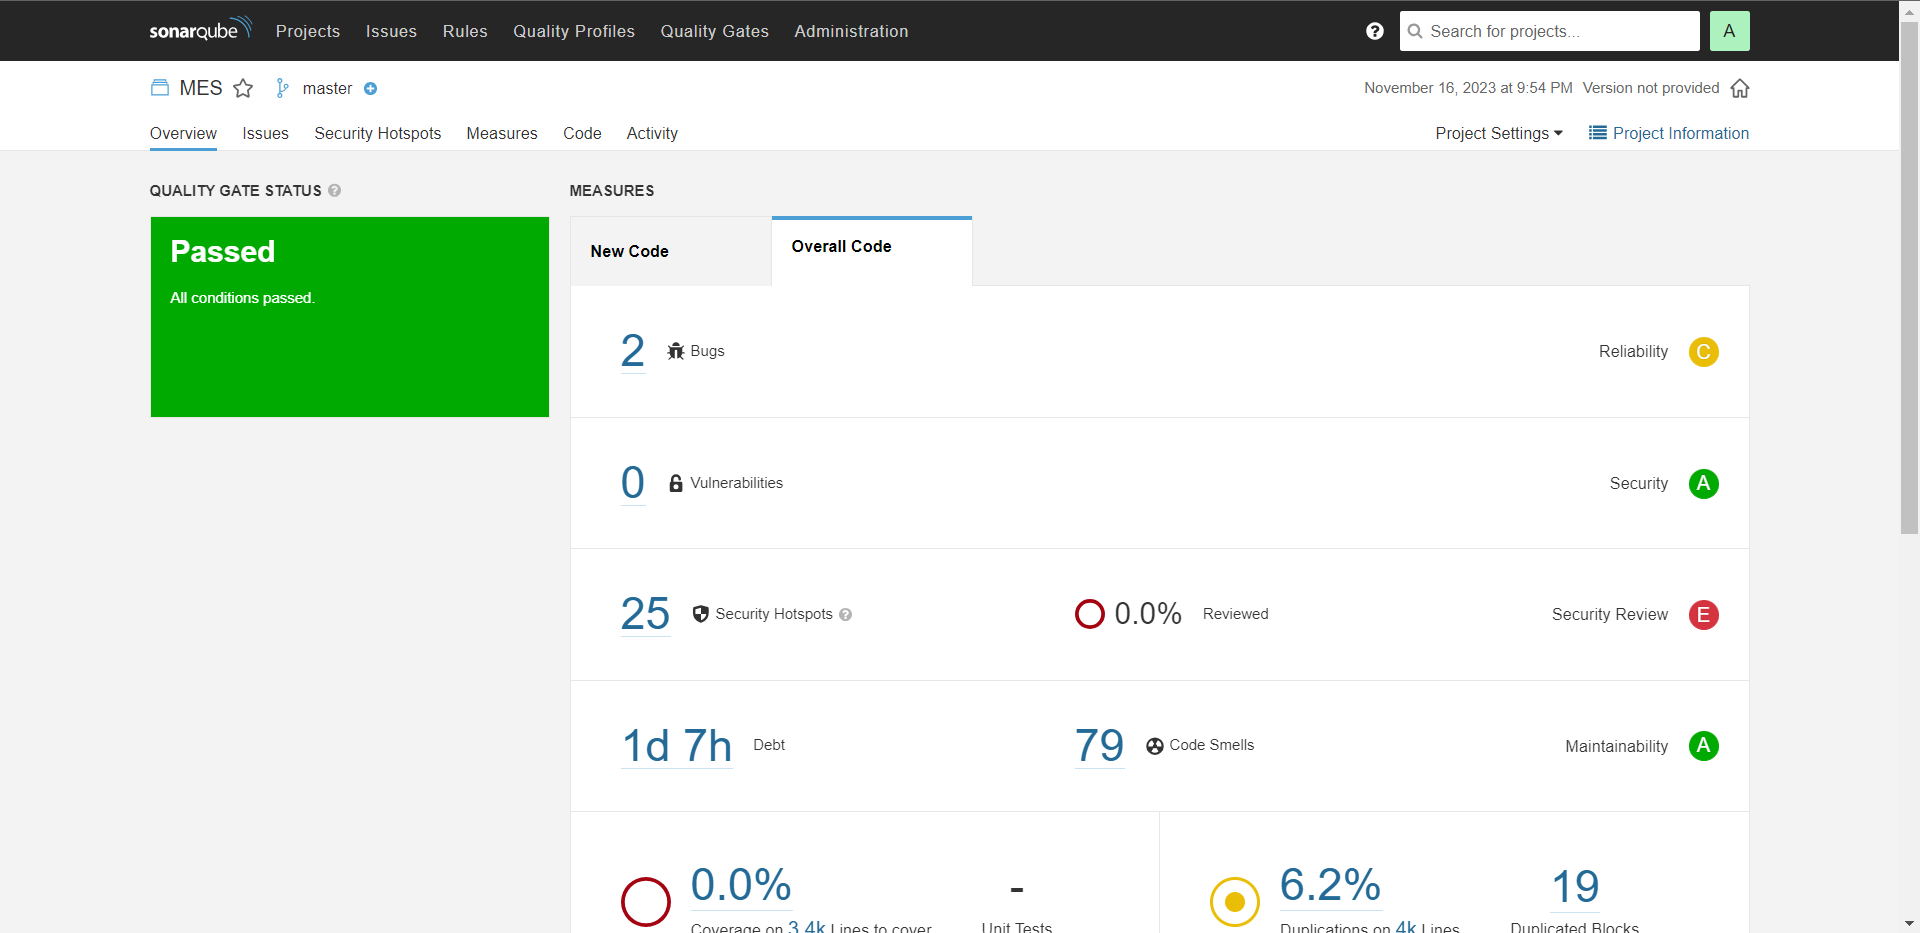
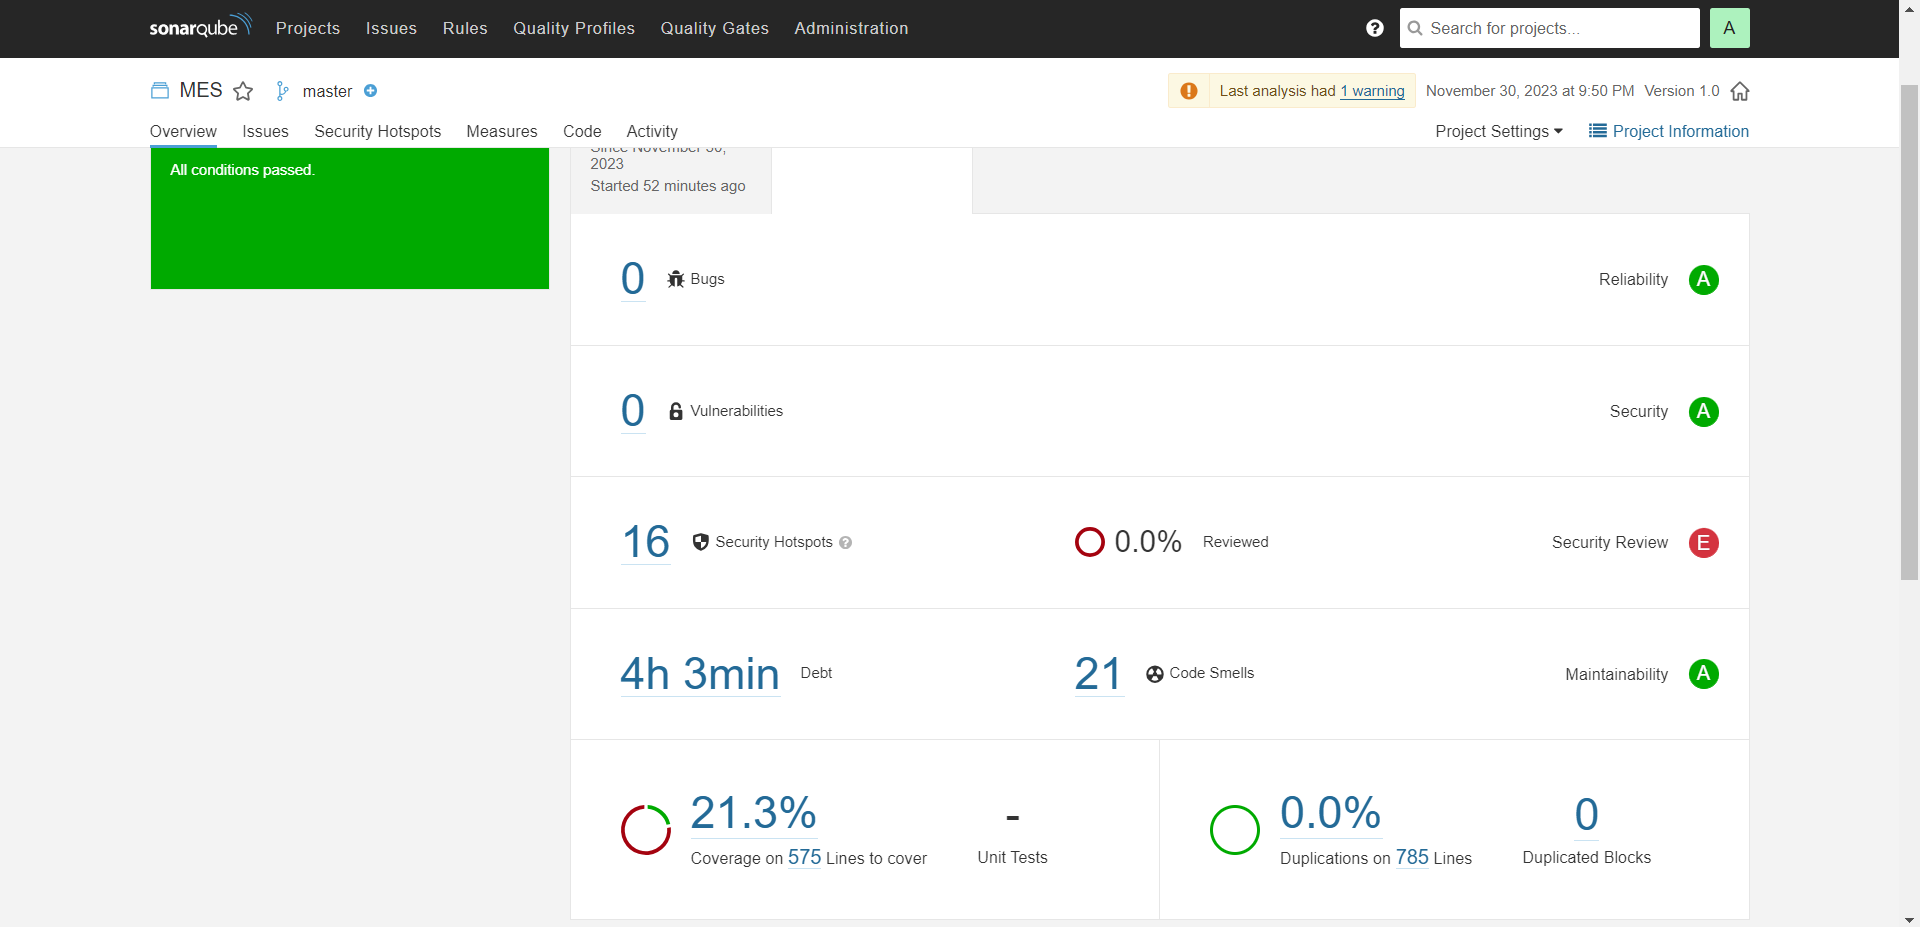
docs: Update development.md with code coverage

diff --git a/docs/development.md b/docs/development.md
@@ -93,7 +93,9 @@ Follow the instructions on the screen to configure the scanner.
 
 ![image](../docs/images/sonarqube_configuration.png)
 
-Finally, copy the command and run it on a terminal in the src folder of the project.
+BBefore running the scanner, perform a code coverage analysis. SonarQube supports the reporting of test coverage information as part of the analysis of the project. However, SonarQube does not generate the coverage report itself. Using Tox, a local automated test tool, it is possible to assert code coverage and generate reports. There is a tox.ini file in the `src` folder that can be configured to run the tests and generate the coverage report. To run the tests, run the command `tox` on the terminal in the `src` folder. This will generate a coverage report in the `analysis` folder. Make sure you map the coverage report to the `sonar-project.properties` file.
+
+Finally, copy the scanner command and run it on a terminal in the src folder of the project.
 
 After scanning the files, you can check the results on the `Sonarqube` interface.
 
